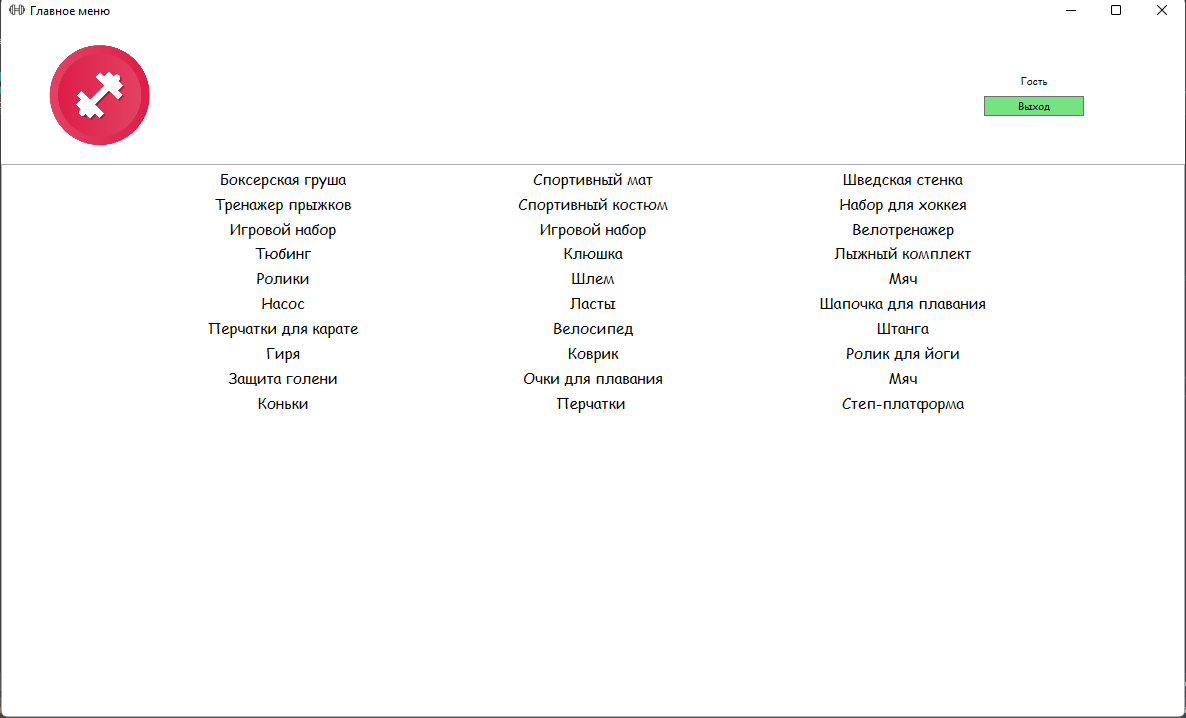
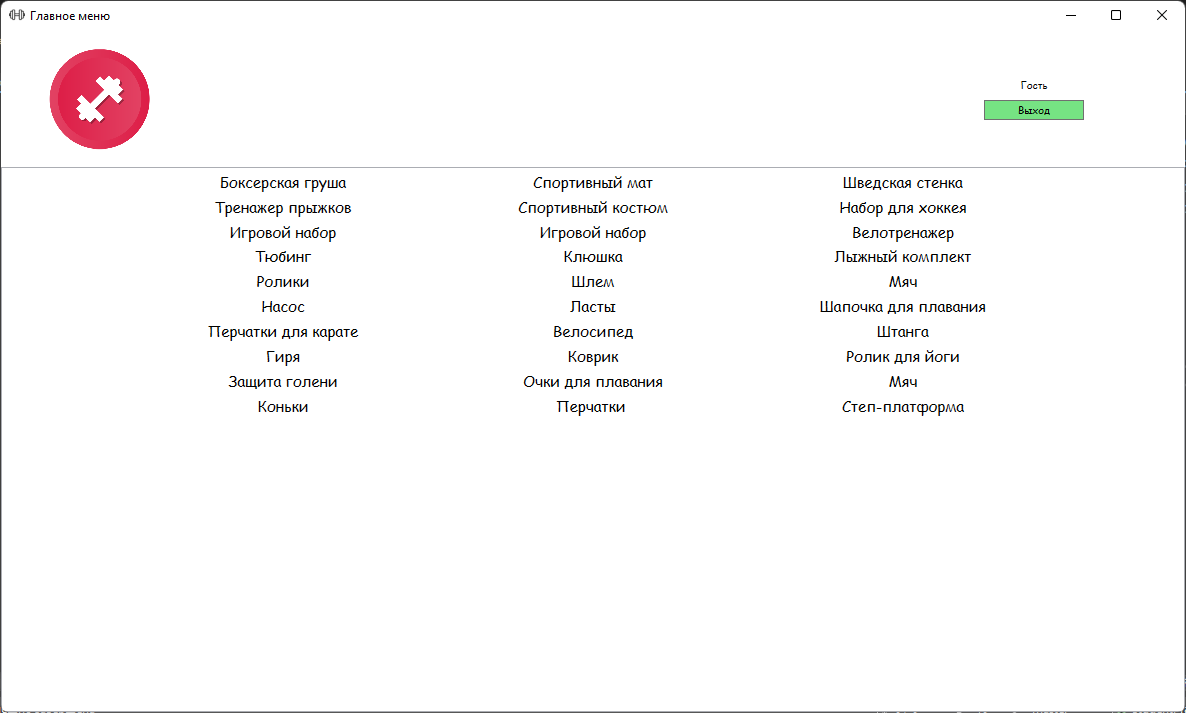
.

diff --git a/SportStore/SportStore/MainWindow.xaml b/SportStore/SportStore/MainWindow.xaml
@@ -6,11 +6,11 @@
         xmlns:local="clr-namespace:SportStore"
         mc:Ignorable="d"
         Title="Главное меню"
-        Height="730"
+        Height="720"
         Width="1200"
-        MinHeight="720"
+        MinHeight="710"
         MinWidth="1100"
-        MaxHeight="730"
+        MaxHeight="720"
         MaxWidth="1250"
         Name="mainWindowApp"
         Icon="Resources/icon.ico"

diff --git a/SportStore/SportStore/obj/Debug/net6.0-windows/MainWindow.g.cs b/SportStore/SportStore/obj/Debug/net6.0-windows/MainWindow.g.cs
@@ -1,4 +1,4 @@
-#pragma checksum "..\..\..\MainWindow.xaml" "{ff1816ec-aa5e-4d10-87f7-6f4963833460}" "F5C6A9E16F95E8BA17C3D41BBA369543E06BAA63"
+#pragma checksum "..\..\..\MainWindow.xaml" "{ff1816ec-aa5e-4d10-87f7-6f4963833460}" "BE49A11BE23552745DCCA8B6FFF2D73FFC27D9F0"
 //------------------------------------------------------------------------------
 // <auto-generated>
 //     Этот код создан программой.

diff --git a/SportStore/SportStore/obj/Debug/net6.0-windows/MainWindow.g.i.cs b/SportStore/SportStore/obj/Debug/net6.0-windows/MainWindow.g.i.cs
@@ -1,4 +1,4 @@
-#pragma checksum "..\..\..\MainWindow.xaml" "{ff1816ec-aa5e-4d10-87f7-6f4963833460}" "F5C6A9E16F95E8BA17C3D41BBA369543E06BAA63"
+#pragma checksum "..\..\..\MainWindow.xaml" "{ff1816ec-aa5e-4d10-87f7-6f4963833460}" "BE49A11BE23552745DCCA8B6FFF2D73FFC27D9F0"
 //------------------------------------------------------------------------------
 // <auto-generated>
 //     Этот код создан программой.
